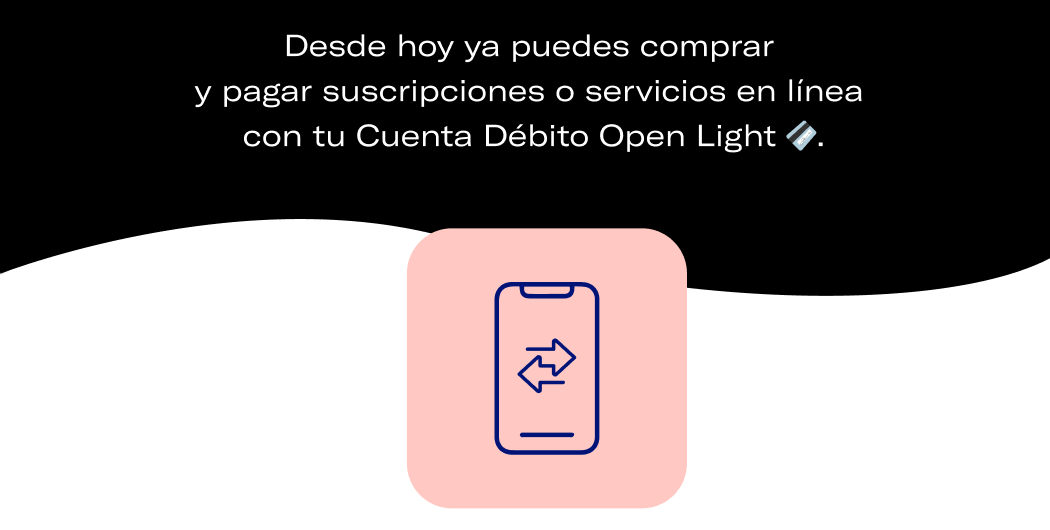
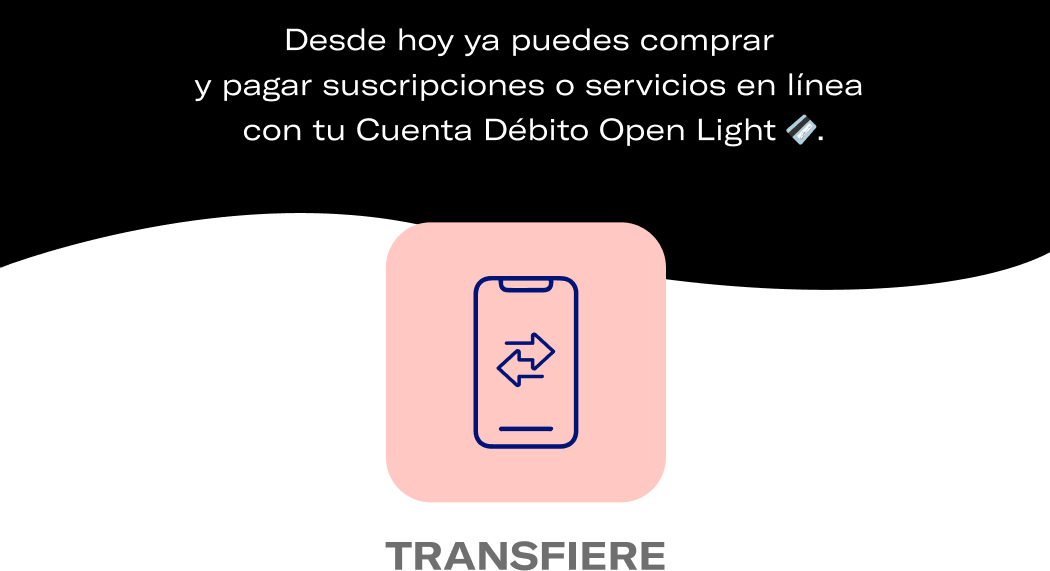
x

Changed region(s): [[0.0, 0.3623, 1.0, 1.0], [0.1829, 0.0302, 0.8229, 0.3019]]

diff --git a/Fondeo/Fondeo_N2/Fondeo_N2.html b/Fondeo/Fondeo_N2/Fondeo_N2.html
@@ -483,19 +483,14 @@
                 </td>
             </tr>
             <tr>
-                <td>
-                    <img src="https://openbank-newsletter-q2k5.vercel.app/Fondeo/Fondeo_N2/img/bloque_1.png" width="100%" alt="" style="display:block;margin-top:-20px; margin-bottom:0;">
-                </td>
-            </tr>
-            <tr>
               <td class="darkmode" style="color:#000000; font-weight: bold; font-size: 30px;margin:0;line-height: 30px; font-family: 'GT-America-Extended', sans-serif; text-align: center;padding: 0 20px;">
                   <div style="margin-bottom:15px;">HOLA, NAME</div>
               </td>
             </tr>
             <tr>
-              <td class="darkmode" style="color:#000000; font-weight: medium; font-size: 18px;margin:0;line-height: 26px; font-family: 'GT-America-Extended', sans-serif; text-align: center;padding: 0 20px;">
-                Tu tarjeta física llegará muy pronto<br>a tu domicilio. Mientras tanto, ya puedes<br>hacer compras digitales.
-              </td>
+                <td>
+                    <img src="https://openbank-newsletter-q2k5.vercel.app/Fondeo/Fondeo_N2/img/bloque_1.png" width="100%" alt="" style="display:block;margin:0;">
+                </td>
             </tr>
             <tr>
               <td>
